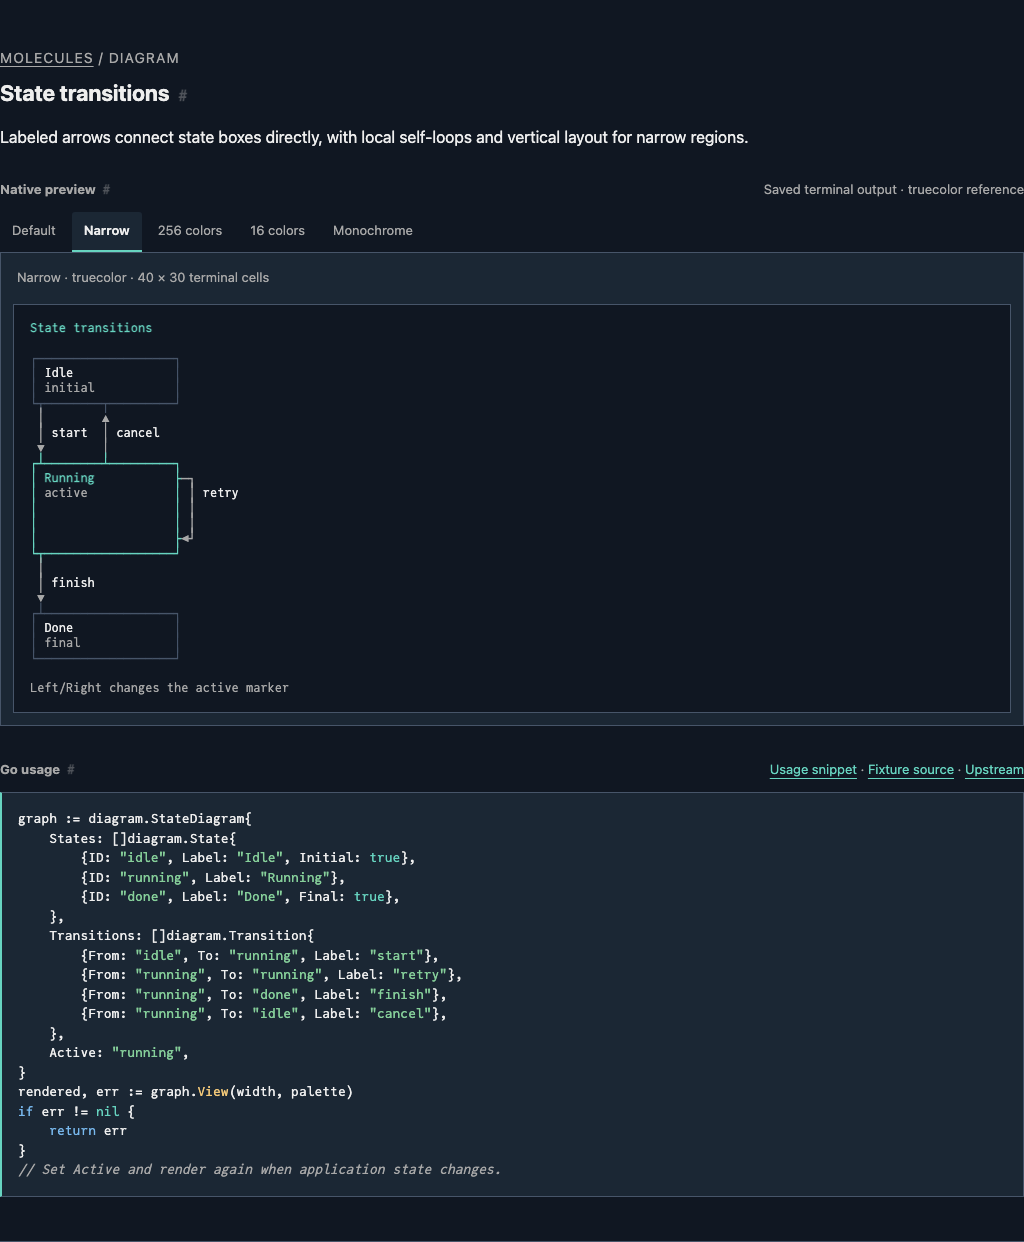
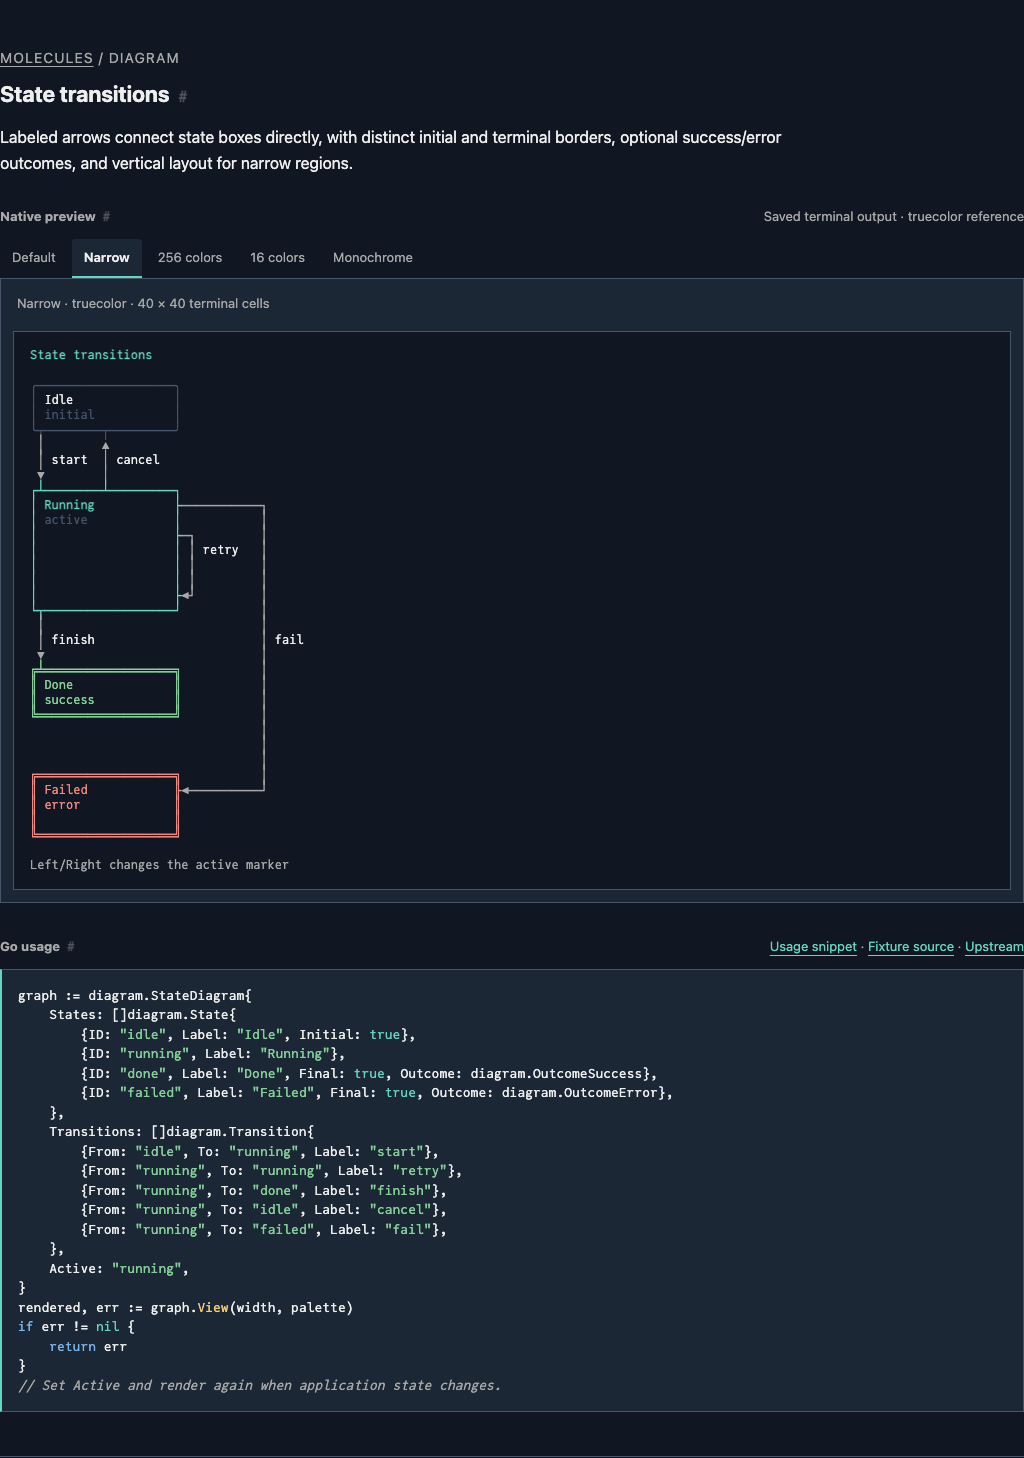
feat(diagram): distinguish state kinds and outcomes

diff --git a/diagram/state_test.go b/diagram/state_test.go
@@ -2,6 +2,7 @@ package diagram_test
 
 import (
 	"fmt"
+	"image/color"
 	"reflect"
 	"regexp"
 	"strings"
@@ -26,10 +27,10 @@ func TestStateDiagramSimpleDirectedTransition(t *testing.T) {
 	}
 
 	want := []string{
-		"+-----------------+        +---------------+",
-		"| A               +-- go ->+ B             |",
+		"(-----------------)        #===============#",
+		"| A               +-- go -># B             |",
 		"| initial         |        | final         |",
-		"+-----------------+        +---------------+",
+		"(-----------------)        #===============#",
 	}
 
 	if !reflect.DeepEqual(lines, want) {
@@ -102,6 +103,7 @@ func TestStateDiagramRejectsInvalidGraphsWithoutPartialOutput(t *testing.T) {
 	for _, d := range []diagram.StateDiagram{
 		{States: []diagram.State{{ID: "a"}, {ID: "a"}}},
 		{States: []diagram.State{{ID: ""}}},
+		{States: []diagram.State{{ID: "a", Outcome: diagram.StateOutcome(99)}}},
 		{States: []diagram.State{{ID: "a", Initial: true}, {ID: "b", Initial: true}}},
 		{States: []diagram.State{{ID: "a"}}, Active: "missing"},
 		{States: []diagram.State{{ID: "a"}}, Transitions: []diagram.Transition{{From: "a", To: "missing"}}},
@@ -300,5 +302,66 @@ func TestStateDiagramComplexEdgesSurviveBothLayouts(t *testing.T) {
 		if strings.Contains(plain, "Crossings") {
 			t.Fatal("complex graph needs a legend")
 		}
+	}
+}
+
+func TestStateKindsAndOutcomes(t *testing.T) {
+	d := diagram.StateDiagram{States: []diagram.State{
+		{ID: "Start", Initial: true},
+		{ID: "Neutral", Final: true},
+		{ID: "Accepted", Final: true, Outcome: diagram.OutcomeSuccess},
+		{ID: "Rejected", Final: true, Outcome: diagram.OutcomeError},
+	}}
+
+	for _, mode := range []theme.Mode{theme.Dark, theme.Light, theme.Contrast, theme.Mono} {
+		for _, width := range []int{40, 200} {
+			palette := theme.New(mode)
+
+			out, err := d.View(width, palette)
+			if err != nil {
+				t.Fatal(err)
+			}
+
+			plain := ansi.Strip(out)
+			for _, label := range []string{"Start", "Neutral", "Accepted", "Rejected", "initial", "success", "error"} {
+				if !strings.Contains(plain, label) {
+					t.Fatalf("lost %q in %s", label, plain)
+				}
+			}
+
+			if mode == theme.Mono {
+				if out != plain || !strings.Contains(plain, "(---") || !strings.Contains(plain, "#===") {
+					t.Fatalf("missing ASCII state shapes: %s", out)
+				}
+			} else if !strings.Contains(plain, "╭─") || !strings.Contains(plain, "╔═") {
+				t.Fatalf("missing Unicode state shapes: %s", out)
+			}
+		}
+	}
+}
+
+func TestOutcomesAreIndependentOfFinalAndActive(t *testing.T) {
+	d := diagram.StateDiagram{States: []diagram.State{{ID: "A", Initial: true, Outcome: diagram.OutcomeError}, {ID: "B", Final: true, Outcome: diagram.OutcomeSuccess}}, Transitions: []diagram.Transition{{From: "A", To: "B", Label: "recover"}}, Active: "B"}
+	palette := theme.New(theme.Dark)
+	palette.Success = color.RGBA{R: 19, G: 83, B: 147, A: 255}
+
+	out, err := d.View(100, palette)
+	if err != nil {
+		t.Fatal(err)
+	}
+
+	if !strings.Contains(ansi.Strip(out), "success, active") || !strings.Contains(out, "\x1b[38;2;19;83;147;1mB") {
+		t.Fatalf("active state lost custom success color or marker: %s", out)
+	}
+
+	d.Active = ""
+
+	inactive, err := d.View(100, palette)
+	if err != nil {
+		t.Fatal(err)
+	}
+
+	if strings.Count(out, "\n") != strings.Count(inactive, "\n") || ansi.StringWidth(strings.Split(out, "\n")[0]) != ansi.StringWidth(strings.Split(inactive, "\n")[0]) {
+		t.Fatal("active changed geometry")
 	}
 }

diff --git a/diagram/render.go b/diagram/render.go
@@ -1,6 +1,7 @@
 package diagram
 
 import (
+	"image/color"
 	"strings"
 
 	uv "github.com/charmbracelet/ultraviolet"
@@ -47,7 +48,9 @@ func (d drawing) render(active string, t theme.Theme) string {
 	}
 
 	for _, node := range d.nodes {
-		border := uv.Style{Fg: t.Border}
+		semantic := nodeColor(node.state, t)
+
+		border := uv.Style{Fg: semantic}
 		if node.state.ID == active {
 			border.Fg = t.Accent
 		}
@@ -77,18 +80,25 @@ func (d drawing) render(active string, t theme.Theme) string {
 				}
 
 				if mask != 0 {
-					put(node.x+x, node.y+y, lineGlyph(mask|masks[node.y+y][node.x+x], ascii), border)
+					put(node.x+x, node.y+y, nodeGlyph(mask|masks[node.y+y][node.x+x], node.state, ascii), border)
 				}
 			}
 		}
 
 		label := t.Text()
+		if node.state.Outcome != OutcomeNone {
+			label = label.Foreground(semantic)
+		}
+
 		if node.state.ID == active {
-			label = label.Foreground(t.Accent).Bold(true)
+			label = label.Bold(true)
+			if node.state.Outcome == OutcomeNone {
+				label = label.Foreground(t.Accent)
+			}
 		}
 
 		drawText(screen, node.x+2, node.y+1, label.Render(node.label))
-		drawText(screen, node.x+2, node.y+2, t.Subtle().Render(node.markers))
+		drawText(screen, node.x+2, node.y+2, t.Text().Foreground(semantic).Render(node.markers))
 	}
 
 	for _, edge := range d.edges {
@@ -146,4 +156,68 @@ func drawText(screen uv.ScreenBuffer, x, y int, value string) {
 	}
 
 	uv.NewStyledString(value).Draw(screen, uv.Rect(x, y, ansi.StringWidth(value), 1))
+}
+
+func nodeColor(s State, t theme.Theme) color.Color {
+	switch s.Outcome {
+	case OutcomeNone:
+		return t.Border
+	case OutcomeSuccess:
+		return t.Success
+	case OutcomeError:
+		return t.Danger
+	default:
+		return t.Foreground
+	}
+}
+
+func nodeGlyph(mask uint8, s State, ascii bool) rune {
+	if s.Final {
+		if ascii {
+			if mask == east|west {
+				return '='
+			}
+
+			if mask&(north|south) != 0 && mask&(east|west) != 0 {
+				return '#'
+			}
+
+			return lineGlyph(mask, true)
+		}
+
+		glyphs := [16]rune{' ', '║', '║', '║', '═', '╚', '╔', '╟', '═', '╝', '╗', '╢', '═', '╧', '╤', '╪'}
+
+		return glyphs[mask]
+	}
+
+	if s.Initial {
+		switch mask {
+		case south | east:
+			if ascii {
+				return '('
+			}
+
+			return '╭'
+		case south | west:
+			if ascii {
+				return ')'
+			}
+
+			return '╮'
+		case north | east:
+			if ascii {
+				return '('
+			}
+
+			return '╰'
+		case north | west:
+			if ascii {
+				return ')'
+			}
+
+			return '╯'
+		}
+	}
+
+	return lineGlyph(mask, ascii)
 }

diff --git a/diagram/state.go b/diagram/state.go
@@ -10,11 +10,22 @@ import (
 	"github.com/lanej/charmed/theme"
 )
 
+// StateOutcome optionally gives a state semantic success or error styling.
+// Outcomes do not imply Final or execute transitions.
+type StateOutcome uint8
+
+const (
+	OutcomeNone StateOutcome = iota
+	OutcomeSuccess
+	OutcomeError
+)
+
 // State names a node. Empty Label uses ID. Initial and Final are visible markers;
 // at most one state may be initial, and final states cannot have outgoing edges.
 type State struct {
 	ID, Label      string
 	Initial, Final bool
+	Outcome        StateOutcome
 }
 
 // Transition is a directed edge. Parallel transitions and self-loops are retained.
@@ -92,20 +103,13 @@ func (d StateDiagram) validate() ([]nodeBox, []link, error) {
 			label = state.ID
 		}
 
-		var markers []string
-		if state.Initial {
-			markers = append(markers, "initial")
+		switch state.Outcome {
+		case OutcomeNone, OutcomeSuccess, OutcomeError:
+		default:
+			return nil, nil, fmt.Errorf("state %q has invalid outcome %d", state.ID, state.Outcome)
 		}
 
-		if state.Final {
-			markers = append(markers, "final")
-		}
-
-		if state.ID == d.Active {
-			markers = append(markers, "active")
-		}
-
-		nodes[i] = nodeBox{state: state, label: label, markers: strings.Join(markers, ", ")}
+		nodes[i] = nodeBox{state: state, label: label, markers: state.markers(state.ID == d.Active)}
 	}
 
 	if d.Active != "" {
@@ -147,4 +151,30 @@ func singleLine(value string) bool {
 	}
 
 	return true
+}
+
+func (s State) markers(active bool) string {
+	var parts []string
+	if s.Initial {
+		parts = append(parts, "initial")
+	}
+
+	if s.Final && s.Outcome == OutcomeNone {
+		parts = append(parts, "final")
+	}
+
+	switch s.Outcome {
+	case OutcomeNone:
+	case OutcomeSuccess:
+		parts = append(parts, "success")
+	case OutcomeError:
+		parts = append(parts, "error")
+	default:
+	}
+
+	if active {
+		parts = append(parts, "active")
+	}
+
+	return strings.Join(parts, ", ")
 }

diff --git a/story/molecules.go b/story/molecules.go
@@ -17,7 +17,7 @@ import (
 
 func moleculesDefinitions() []Definition {
 	d := []Definition{
-		{ID: "diagram/state-transitions", Title: "Molecules/Diagrams/State transitions", Level: "Molecules", Family: "diagram", Description: "Labeled arrows connect state boxes directly, with local self-loops and vertical layout for narrow regions.", Source: "story/diagrams.go", Symbol: "stateDiagramStory", Defaults: DefaultConfig(), Factory: stateDiagramStory},
+		{ID: "diagram/state-transitions", Title: "Molecules/Diagrams/State transitions", Level: "Molecules", Family: "diagram", Description: "Labeled arrows connect state boxes directly, with distinct initial and terminal borders, optional success/error outcomes, and vertical layout for narrow regions.", Source: "story/diagrams.go", Symbol: "stateDiagramStory", Defaults: stateDiagramConfig(), Factory: stateDiagramStory},
 		widget("input/field", "Molecules/Input/Labeled field", "Molecules", "input", "Label, help and validation composed around the same input atom.", "fieldStory", []string{"value", "state"}, fieldStory),
 		widget("feedback/paginator", "Molecules/Feedback/Pagination", "Molecules", "feedback", "Native pagination logic with shared active and inactive styles.", "paginatorStory", nil, paginatorStory),
 		widget("feedback/help", "Molecules/Feedback/Help", "Molecules", "feedback", "Help is generated from the same native key bindings that handle input.", "helpStory", nil, helpStory),

diff --git a/story/diagrams.go b/story/diagrams.go
@@ -12,8 +12,8 @@ import (
 
 func stateDiagramStory(e Environment) (runtime.Scene, error) {
 	graph := diagram.StateDiagram{
-		States:      []diagram.State{{ID: "idle", Label: "Idle", Initial: true}, {ID: "running", Label: "Running"}, {ID: "done", Label: "Done", Final: true}},
-		Transitions: []diagram.Transition{{From: "idle", To: "running", Label: "start"}, {From: "running", To: "running", Label: "retry"}, {From: "running", To: "done", Label: "finish"}, {From: "running", To: "idle", Label: "cancel"}},
+		States:      []diagram.State{{ID: "idle", Label: "Idle", Initial: true}, {ID: "running", Label: "Running"}, {ID: "done", Label: "Done", Final: true, Outcome: diagram.OutcomeSuccess}, {ID: "failed", Label: "Failed", Final: true, Outcome: diagram.OutcomeError}},
+		Transitions: []diagram.Transition{{From: "idle", To: "running", Label: "start"}, {From: "running", To: "running", Label: "retry"}, {From: "running", To: "done", Label: "finish"}, {From: "running", To: "idle", Label: "cancel"}, {From: "running", To: "failed", Label: "fail"}},
 	}
 	active := 1
 
@@ -45,4 +45,11 @@ func stateDiagramStory(e Environment) (runtime.Scene, error) {
 			return title("State transitions", e) + out + footer("Left/Right changes the active marker", e)
 		},
 	}, nil
+}
+
+func stateDiagramConfig() Config {
+	c := DefaultConfig()
+	c.Columns, c.Rows = 120, 40
+
+	return c
 }

diff --git a/story/diagrams_test.go b/story/diagrams_test.go
@@ -11,7 +11,7 @@ import (
 
 func TestStateDiagramStoryUpdatesAndResizes(t *testing.T) {
 	config := story.DefaultConfig()
-	config.Columns, config.Rows = 100, 30
+	config.Columns, config.Rows = 120, 40
 
 	model, err := story.New("diagram/state-transitions", config, nil)
 	if err != nil {
@@ -43,10 +43,10 @@ func TestStateDiagramStoryUpdatesAndResizes(t *testing.T) {
 		t.Fatal("narrow view displayed a partial graph instead of allocation guidance")
 	}
 
-	_, _ = model.Update(tea.WindowSizeMsg{Width: 40, Height: 30})
+	_, _ = model.Update(tea.WindowSizeMsg{Width: 40, Height: 40})
 
 	vertical := ansi.Strip(model.View().Content)
-	for _, label := range []string{"Idle", "Running", "Done", "start", "retry", "finish", "cancel"} {
+	for _, label := range []string{"Idle", "Running", "Done", "start", "retry", "finish", "cancel", "Failed", "success", "error", "fail"} {
 		if !strings.Contains(vertical, label) {
 			t.Fatalf("narrow layout lost %q", label)
 		}
@@ -61,7 +61,7 @@ func TestStateDiagramStoryUpdatesAndResizes(t *testing.T) {
 		t.Fatal("short view silently clipped graph topology")
 	}
 
-	_, _ = model.Update(tea.WindowSizeMsg{Width: 100, Height: 30})
+	_, _ = model.Update(tea.WindowSizeMsg{Width: 120, Height: 40})
 	if model.View().Content != original {
 		t.Fatal("resize lost the caller graph or active state")
 	}

diff --git a/diagram/layout.go b/diagram/layout.go
@@ -79,18 +79,7 @@ func planDiagram(input []nodeBox, edges []link, vertical bool) drawing {
 	for i := range d.nodes {
 		n := &d.nodes[i]
 
-		possible := "active"
-		if n.state.Initial {
-			possible = "initial, active"
-		}
-
-		if n.state.Final {
-			possible = "final, active"
-		}
-
-		if n.state.Initial && n.state.Final {
-			possible = "initial, final, active"
-		}
+		possible := n.state.markers(true)
 
 		n.w = max(7, ansi.StringWidth(n.label)+4, ansi.StringWidth(possible)+4)
 		n.h = 4

diff --git a/docs/components.md b/docs/components.md
@@ -14,4 +14,4 @@ Text inputs distinguish disabled state with an inactivity shade and a slashed-ci
 
 Saved text, textarea and field fixtures explicitly prepare static focus with cursor blinking disabled. They do not call general scene initialization or execute commands; native interactive runs retain their normal focus and clock lifecycle. Percentage bars keep tiny nonzero values in scientific notation instead of labeling them as zero. When a label cannot fit, a truncation mark signals that limit.
 
-`diagram.StateDiagram` renders explicit `States`, `Transitions` and an optional `Active` state ID. `State` has an ID, an optional display label and `Initial`/`Final` flags; `Transition` has `From`, `To` and an optional label. `View(width, palette)` prefers a horizontal layout with labeled arrows directly between adjacent boxes, and switches to a vertical layout when the horizontal graph is too wide. Self-loops sit beside their state; longer edges carry labels on their own paths. Nodes and arrows retain the same meaning across themes and ASCII output, with no diagram legend. State and transition declaration order keep placement deterministic; parallel transitions, cycles and self-loops remain separate. The complete graph is returned or an error reports the minimum width across both layouts. Height depends on the selected orientation; callers must allocate enough rows or use a viewport. Labels are single-line plain text; wide and combining characters retain cell alignment. Empty graphs render an empty string. Unknown endpoints, duplicate IDs, multiple initial states, unknown active states and outgoing transitions from final states return errors. The component displays application state; applications own transition execution.
+`diagram.StateDiagram` renders explicit `States`, `Transitions` and an optional `Active` state ID. `State` has an ID, an optional display label and `Initial`/`Final` flags and an optional `Outcome` (`OutcomeNone`, `OutcomeSuccess` or `OutcomeError`); `Transition` has `From`, `To` and an optional label. `View(width, palette)` prefers a horizontal layout with labeled arrows directly between adjacent boxes, and switches to a vertical layout when the horizontal graph is too wide. Self-loops sit beside their state; longer edges carry labels on their own paths. Initial states use rounded borders, ordinary states use square borders, and final states use double borders; ASCII uses parentheses and equals-sign borders for the same distinction. Success and error outcomes use the theme’s `Success` and `Danger` colors and explicit text markers. Outcomes are independent of `Final`; active emphasis preserves outcome colors. Nodes and arrows retain the same meaning across themes and ASCII output, with no diagram legend. State and transition declaration order keep placement deterministic; parallel transitions, cycles and self-loops remain separate. The complete graph is returned or an error reports the minimum width across both layouts. Height depends on the selected orientation; callers must allocate enough rows or use a viewport. Labels are single-line plain text; wide and combining characters retain cell alignment. Empty graphs render an empty string. Unknown endpoints, duplicate IDs, multiple initial states, unknown active states and outgoing transitions from final states and invalid outcomes return errors. The component displays application state; applications own transition execution.
